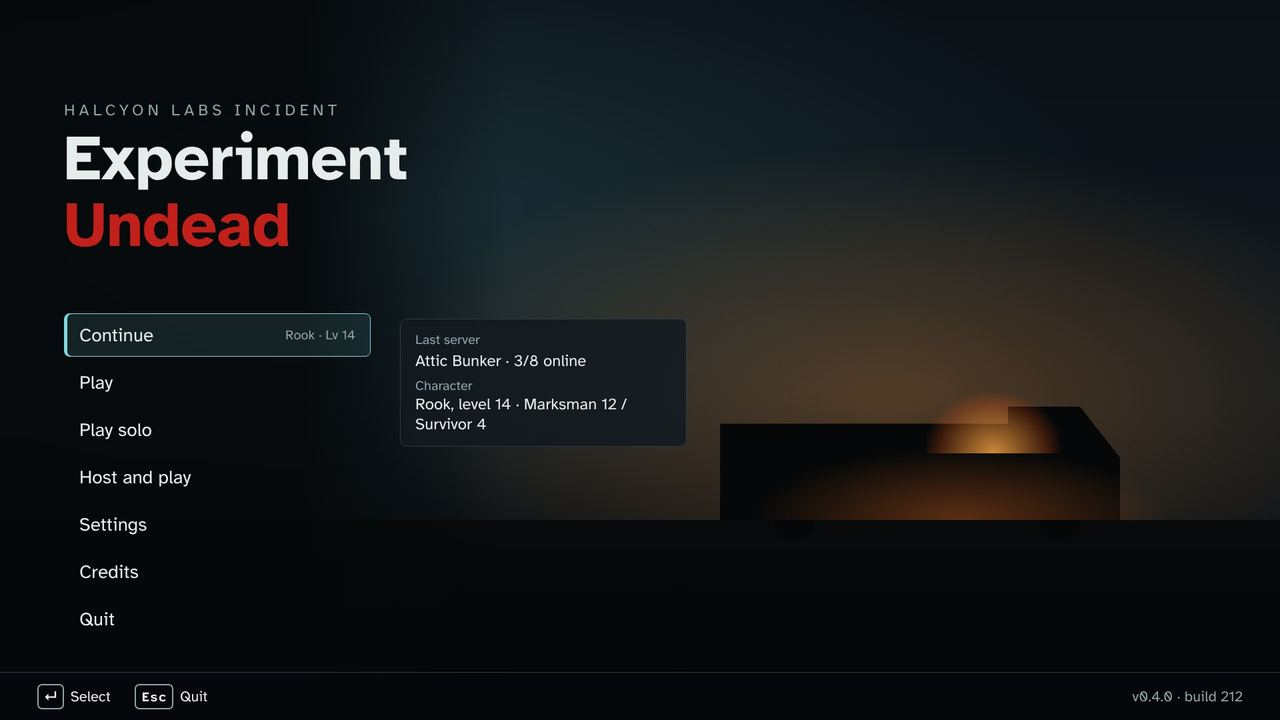
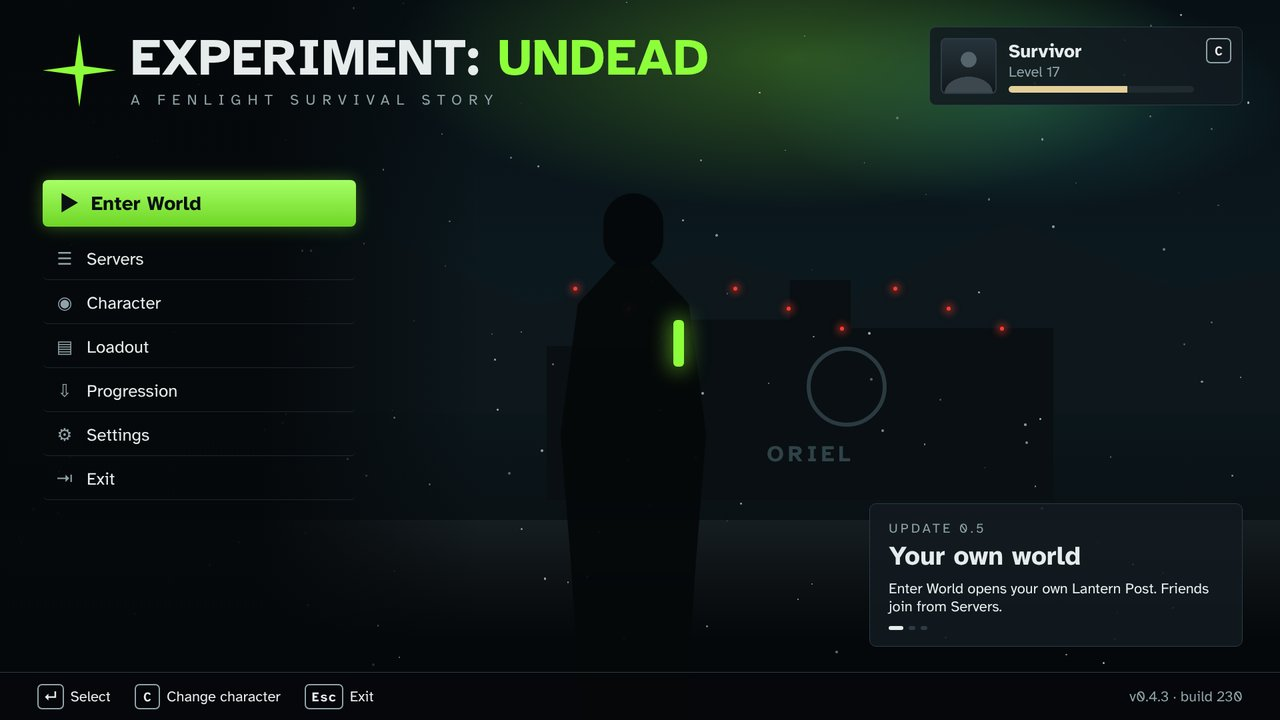
Upgrade main menu, server browser, character select and HUD design to the concept art
Claude-Session: https://claude.ai/code/session_012H4uhqPXUuzN6dbQWGWNqL

diff --git a/docs/design/ui-hud.md b/docs/design/ui-hud.md
@@ -1,6 +1,6 @@
 # Menus, HUD and Screen Flow
 
-Source: copy of the design doc (UI/UX spec) as of Nov 14, 2026. Where this file and the code differ, the code and `docs/DECISIONS.md` win.
+Source: copy of the design doc (UI/UX spec) as of Nov 14, 2026, with screens 1, 2, 3 and 10 updated on Nov 17, 2026 to the person's concept art ([concepts/screens/screens_concept.jpg](concepts/screens/screens_concept.jpg)). Where this file and the code differ, the code and `docs/DECISIONS.md` win.
 
 ## Summary
 
@@ -8,7 +8,7 @@ The game has 15 screens in 3 places: the front end (before you join a server), t
 
 **Rules every screen follows**
 
-1. **Two clicks to play.** From the main menu, Continue puts you in the town with your last character; from the town, the Deploy Gate is the only way into a match.
+1. **Two clicks to play.** From the main menu, Enter World puts you in your own town with your last character; from the town, the Deploy Gate is the only way into a match.
 2. **Easy to read.** Atkinson Hyperlegible by default (Lexend and OpenDyslexic as options), body text never below 24 px at 1080p, left-aligned, no italics, no long all-caps text, short labels. A text size slider scales every screen, not only the HUD.
 3. **The middle of the HUD stays empty.** Only the crosshair, hitmarkers and the interaction prompt live in the centre.
 4. **Colour always has a second signal.** Rarity has a colour, a shape, a name and pips (Common circle with 1 pip up to Prototype hazard triangle with 6). Low ammo turns orange and shows LOW. This keeps colour-blind players covered.
@@ -26,7 +26,9 @@ Two-way arrows are screens that open on top and close with Esc or B. The first-l
 
 ## UI style
 
-Menus look like containment-facility terminals: dark blue-black glass panels, thin teal-grey borders, and one bright accent per screen. Bio-green stays reserved for the experiment (Prototype loot, power-ups, the Vault), so it never appears as a plain button colour.
+Menus look like containment-facility terminals: dark blue-black glass panels, thin teal-grey borders, and one bright accent per screen. Bio-green is for the experiment (Prototype loot, power-ups, the Vault) and for **one main action button per screen** (Enter World, Join Server, Select Character, the launcher's PLAY), as in the concept art (the person, 2026-11-17). Every other button, focus ring and selected row stays teal.
+
+**Front-end layout (from the concept art).** Front-end screens use a left column of menu rows or tabs, each with a small line icon, and the selected row gets a teal bar on its left edge. Content sits in large glass panels. The one main action is a wide green button with dark text and a soft green glow, at the bottom right of the screen's content or at the top of the menu column.
 
 | Token | Hex | Used for |
 | --- | --- | --- |
@@ -36,12 +38,12 @@ Menus look like containment-facility terminals: dark blue-black glass panels, th
 | line | #2C3B44 | Borders, dividers |
 | text | #E6ECEC | Main text |
 | text\_dim | #8FA3A8 | Labels, hints, disabled |
-| accent | #7FD6E0 | Focus ring, selected item, primary button (cold fluorescent teal) |
+| accent | #7FD6E0 | Focus ring, selected item, secondary buttons (cold fluorescent teal) |
 | warn | #FF9F1C | Low ammo, warnings |
 | danger | #C3201B | Round number, damage, death, delete |
 | headshot | #FFC845 | Headshot hitmarker and kill numbers |
 | xp | #E3CF9A | XP bar and level-up (brass) |
-| experiment | #8DFF3A | Prototype, power-ups, Vault only |
+| experiment | #8DFF3A | Prototype, power-ups, Vault, and the one main action button per screen (gradient #A6FF66 to #6FD626, text bg\_deep) |
 
 Rarity colours come from the style guide: Common #D9D9D2, Uncommon #3FE0C8, Rare #3D7DFF, Epic #A64DFF, Legendary #FF8A1C, Prototype #8DFF3A. Each item shows rarity four ways: border colour, rarity shape (circle for Common up to hazard triangle for Prototype), rarity name in the tooltip, and 1 to 6 pips.
 
@@ -61,35 +63,58 @@ Shown once, before the main menu, and again from Settings. One page with big pre
 
 ### 1. Main menu
 
-A slow camera drift over the burning supply truck at the Halcyon Labs dock, with the menu on the left third.
+A live 3D scene: your selected character stands in the snow at the Halcyon Labs outer gate at night, under a green Fenlight aurora, with the Oriel Biotechnic building and its red warning lights behind. Slow camera drift, falling snow. The menu sits on the left third over a dark fade.
 
-- **Continue** (default focus): joins the last server with the last character. Greyed out on first launch.
-- **Play**: opens the server browser.
-- **Play solo**: starts a private local server in the background and goes straight to character select. Same code path as online.
-- **Host and play**: same as solo, but opens the port so friends can join. Asks for a server name and password once.
-- **Settings**, **Credits**, **Quit**.
-- Bottom right: game version and build number, for bug reports.
+- **Top left:** the wordmark "EXPERIMENT: UNDEAD" (UNDEAD in bio-green) with the four-point Fenlight star, and the line "A Fenlight survival story".
+- **Enter World** (green, default focus): starts your own Lantern Post with the selected character (open to friends, F-66).
+- **Servers**: the server browser (screen 2).
+- **Character**: character select (screen 3).
+- **Loadout**: the Character screen (screen 5) for the selected character.
+- **Progression**: the Skill tree (screen 6) for the selected character.
+- **Settings**, **Exit**.
+- **Top right, profile card:** portrait, character name, level and a brass XP bar. Click it or press C to change character. Never a real name: the mockup uses "Survivor".
+- **Bottom right, news card:** the latest update's title and one line, from the patch notes bundled with the build (no internet feed), with dots to page through the last 3. Replaces the concept's season banner: there are no seasons.
+- **Bottom left:** game version and build number, for bug reports.
 
 ![Main menu mockup](images/ui_main_menu.jpg)
 
-### 2. Server browser and direct connect
+### 2. Server browser
 
-There is no master server, so the list holds servers you added or joined before, plus servers found on your local network (LAN broadcast on UDP 24600).
+There is no master server (F-66, ADR 0006), so the list holds servers you added or joined before, plus servers found on your local network: the browser sends an info query to each server's info port (game port + 1000, so 8777 for 7777) and broadcasts it on the LAN.
 
-- Columns: name, players (3/8), map in progress, ping, password lock. Sorted by ping.
-- **Direct connect** field: address and port, with a password field that appears when the server asks for one.
-- Right-click or Y on a row: favourite, rename, remove.
-- Errors in plain words: "Server is full (8/8)", "Wrong password", "Version mismatch: server 0.3.1, you 0.3.0".
+- **Left column tabs:** All, Favourites, Recent, LAN, and Refresh at the bottom. The concept's Official, Community and Modded tabs and its Region filter need a master server, so they are left out.
+- **Filters:** Map, Players, Show full, Show other versions, and a search box.
+- **Columns:** favourite star, server name, now playing (hub or map and round), players (3 / 8), ping (signal bars plus ms, orange above 80 ms), tags (LAN, Full, version in orange when it does not match yours). Sorted by ping.
+- **Add by address** under the list: address and port, then Add and join. No password field until P8.
+- **Detail panel** at the bottom for the selected row: map picture, name, what it is playing, version check, address, tags, players, and a green **Join Server** button.
+- Favourite, rename and remove from a row (F, right-click or Y).
+- Errors in plain words: "Server is full (8/8)", "Version mismatch: server 0.4.1, you 0.4.0".
 
 ![Server browser mockup](images/ui_server_browser.jpg)
 
-### 3. Character select and create
+### 3. Character select
 
-Up to 6 character slots, stored in `user://characters/`. Each card shows name, level, the 3 skill branches as small bars, and the loadout primary with its rarity border.
+Built in F-67 (plan needed). You pick one of a small roster of **preset survivors**, each with a name, a role, a short bio and 3 fixed traits (the person picked this over making your own character, 2026-11-17). Skills and loot still make your build; traits are a small flavour on top.
 
-- Create: name, body type, 4 face presets, outfit colour. No class choice: your build comes from skills and loot.
-- Delete needs you to type the character's name.
-- Import and export a character file, so players can move PCs or back up.
+- **Left column:** a portrait for each survivor with name and level (no level shown if never played), the selected one with a teal frame.
+- **Middle:** the selected survivor as a live 3D model in their equipped gear, lit by a warm lamp in a dark room. Drag or right stick to turn it.
+- **Right panel:** name (large), role ("Field Lead · Salvager"), a 2-line bio, **Traits** (icon, name, one line each), then your progress with this survivor: level, brass XP bar, best round, and the equipped guns as small rarity cards.
+- **Select Character** (green) under the panel: back to the main menu with this survivor on the profile card.
+- Export and import a save file, so players can move PCs or back up.
+
+**Provisional, for the F-67 plan to settle:**
+
+- **Progress is per survivor:** each survivor has their own save (`user://characters/<survivor_id>.json`: level, skills, stash, Scrap), so playing a new survivor starts at level 1. This keeps today's one-file-per-character save.
+- **Starting roster of 4** (names and bios are placeholders until the lore pass; no real people's names, ever):
+
+| Survivor | Role | Bio | Traits |
+| --- | --- | --- | --- |
+| Elias Kell | Field Lead · Salvager | Former Cordon logistics sergeant. Knows the zone and its people. | Tenacious (less damage while downed), Field Experience (more ammo carried), Team Anchor (nearby squadmates regenerate a little faster between rounds) |
+| Noor Wouters | Medic | Night nurse at Halcyon Labs who got out on Day 0. | Quick Hands (faster revives), Triage (revived squadmates get back more health), Calm (less screen shake when hit) |
+| Jonas Leclercq | Engineer | Kessel Dam turbine fitter, now keeps Lantern Post's lamps lit. | Tinkerer (cheaper barricade repair points), Heavy Lifter (faster weapon swap), Night Shift (longer power-up timers) |
+| Ines Haelen | Lab Tech | Oriel sample technician who knows how Fenlight behaves. | Sample Sense (Fenlight samples and drops show farther away), Cold Read (see a special zombie's tell a bit earlier), Steady (less sway when aiming) |
+
+- **Trait numbers** come from the balance sheet, small (around 5 to 15%), and use existing stat keys where one exists. A new data type (`SurvivorData` in `content/survivors/`) holds name, role, bio, portrait, model and trait list.
 
 ![Character select mockup](images/ui_character_select.jpg)
 
@@ -152,13 +177,15 @@ Map art, the map name, and one rotating tip. A progress bar, and the names of sq
 
 ### 10. Match HUD
 
-Follows the design doc table. Additions:
+Follows the design doc table. Additions (the concept art on 2026-11-17 added the health panel, objective list, item slots and area name):
 
-- **Top right:** squad cards (name, health bar, down state with bleed-out timer) and pinned contracts.
-- **Bottom left, above serums:** field ability icon with a cooldown ring, and the Pack count (4/6).
+- **Top left:** round number, and under it the map and the area you are in ("Halcyon Labs · Containment").
+- **Top right:** an objective list (exfil steps, map events, pinned contracts with a count, done ones ticked and struck through), then squad cards (name, health bar, down state with bleed-out timer).
+- **Bottom left:** field ability icon with a cooldown ring, serums and the Pack count (4/6) in one row, and under it the health panel: portrait, health number and max (100 / 150) and a health bar. The red vignette under 40 HP and the heartbeat stay.
 - **Bottom centre:** power-up timers, and a small item drop feed ("Rare Talon DMR" in rarity colour) that fades after 4 s.
-- **Health:** no health bar for yourself, like the design doc: red vignette under 40 HP and a short heartbeat. A thin bar only appears when Ironhide or gear raises max health above 150, so the extra health is readable.
+- **Bottom right:** points, then the grenade and tactical slots (icon, count, key G and Q) next to the ammo panel (gun name with rarity shape, magazine big, reserve small).
 - **Exfil:** from round 10, every 5 rounds, a marker and a 60 s hold bar appear at the top centre.
+- **Not taken from the concept:** a minimap (Halcyon Labs is small; later if a bigger map needs it), armour and medkits (the game has neither), and a zombies-remaining count.
 
 ![Match HUD mockup over a first-playable screenshot](images/ui_match_hud.jpg)
 
@@ -192,6 +219,7 @@ Exfil uses the same screen with a green "Exfiltrated" banner and the exfil cache
 
 Pages: Controls, Aim, Video, Audio, Accessibility, Comfort, with a search box at the top that finds any setting by name. Each row is a label, a control, and a one-line hint under it. The full list of rows lives in the [Controls and accessibility plan](controls.md); this doc only covers the layout. Changes apply live, with "Revert" and "Defaults" at the bottom. Video changes that need a restart say so.
 
+- **Network tab (F-66):** Let friends join my world, Open router port automatically, World name, port.
 - **Accessibility tab:** text size, colour-blind mode (3 presets for hitmarkers, drops and rarity), subtitles for audio tells, screen shake, reduce motion, hold or toggle for ADS, sprint and crouch, aim assist for controller.
 - **Controls tab:** every action from the input map, with keyboard and controller columns and a "press a key" rebind.
 
@@ -247,13 +275,14 @@ UI is built in the same phases as the roadmap, so no screen is made before the s
 | P2 Wave loop | Round number, points with floating numbers, interaction prompt, power-up timers, serum row, simple results screen |
 | P4 Map 1 (v0.1) | Main menu, Loading, final HUD polish, results screen in final look |
 | P5 Levels and skills | XP bar, level-up toast, Skill tree, field ability icon |
-| P6 Loot (v0.2) | Item card and tooltip, Pack overlay, drop feed, Character screen (loadout, stash), results loot column, character select |
+| P6 Loot (v0.2) | Item card and tooltip, Pack overlay, drop feed, Character screen (loadout, stash), results loot column, character select (F-67) |
 | P7 Co-op | Squad cards, down and revive states, results View squad |
 | P8 Server package | Server browser, direct connect, Host and play |
 | P9 Town hub (v1.0) | Town HUD, stations (Workbench, Quartermaster, Contracts, Records), Deploy Gate, player list and inspect, chat |
 
 **Provisional decisions (taken without a review, change any of them)**
 
-- **Main menu background: a live 3D scene** of the Halcyon Labs dock, reusing Map 1 with a slow camera drift. A pre-rendered video is the fallback if loading takes too long.
+- **Main menu background: a live 3D scene** of the selected character at the Halcyon Labs outer gate at night (snow, green aurora), from the concept art. A pre-rendered video is the fallback if loading takes too long.
+- **Main menu Loadout and Progression** open the same Character screen and Skill tree as in town, for the selected character. **News card** reads the patch notes bundled with the build.
 - **Pack overlay: the game keeps running at full speed**, solo too. Only mouse look pauses. This keeps it a quick check, not a safe spot.
 - **Controller: supported at launch**, following the controller layouts in the [Controls and accessibility plan](controls.md). Every screen gets a default focus and button glyphs from P0, so this costs little up front.

diff --git a/docs/design/game-design.md b/docs/design/game-design.md
@@ -506,6 +506,9 @@ Design changes since the Nov 14, 2026 copy, newest first. Add one row in the sam
 
 | Date | Area | Change | Detail |
 | --- | --- | --- | --- |
+| 2026-11-17 | UI | Screens follow the person's concept art: the one main action button per screen is bio-green (Enter World, Join Server, Select Character); main menu gets Enter World, Servers, Character, Loadout, Progression, Settings, Exit, a profile card and a news card. | [ui-hud.md](ui-hud.md) UI style, screens 1 and 2 |
+| 2026-11-17 | Characters | Character select picks a preset survivor (name, role, bio, 3 small traits) instead of making your own; progress is per survivor (provisional). | [ui-hud.md](ui-hud.md) screen 3, roadmap F-67 |
+| 2026-11-17 | HUD | Match HUD gets an always-on health panel (number and bar), an objective list top right, the area name under the round, and grenade and tactical slots by the ammo. No minimap, armour or medkits. | [ui-hud.md](ui-hud.md) screen 10 |
 | 2026-11-17 | Gore | Full gore is stronger, picked from renders: blood bursts have 24 flecks (was 12) and each death lays a 1.6x pool plus 2 small splats. Head pops on headshot kills; Gore setting Full / Reduced / Off on the Graphics page. | [game-feel.md](game-feel.md) Blood and gore, plan zombie-sounds-gore step 4 |
 | 2026-11-17 | Campaign | Long campaign: maps come in acts of four (Act I = the first four maps), each map has a boss reached through a mid-run Sublevel descent, Lantern Post grows per act, and endgame hooks are named. | [lore.md](lore.md), PR #201, roadmap F-60 |
 | 2026-11-16 | Process | Plan first: a feature whose roadmap row says "needed" gets an approved plan in `docs/plans/` before any code. `docs/ROADMAP.md` is the build order. | [PROCESS.md](../PROCESS.md), PR #172 |

diff --git a/docs/ROADMAP.md b/docs/ROADMAP.md
@@ -50,7 +50,7 @@ Status values: Todo, Planning, Ready (plan approved), Building, Done, Check
 | F-49 | HUD feedback and loading: loading screen, damage numbers, level-up burst, drop feed | - | - | [done](plans/hud-feedback-loading.md) | M | Done |
 | F-50 | First Lantern Post hub: town blockout, Deploy board and ready-up vote (first slice of F-45, pulled forward for the co-op week goal) | #131 | F-02, F-47 step 4 (#255), co-op #256 | [done](plans/lantern-post-hub.md) | M | Done |
 | F-66 | Your own world, open to friends: Enter world into your own Lantern Post (listen server, UPnP), server browser with add by address and LAN discovery, no master server | - | F-02, F-50 | [ready](plans/join-any-game.md) | L | Ready |
-| F-67 | Character select and create before Enter world (ui-hud screen 3: slots, create, delete) | - | F-66 step 2 | needed | M | Todo |
+| F-67 | Character select before Enter world: pick a preset survivor with a bio and 3 traits (ui-hud screen 3, concept art 2026-11-17) | - | F-66 step 2 | needed | M | Todo |
 
 ## Next: v0.2 Progression and loot
 

diff --git a/docs/design/concepts/README.md b/docs/design/concepts/README.md
@@ -43,3 +43,7 @@ Shared helpers live in `tools/concepts/blockout.py`: the
 fog, wet floors and the shot renderer. Use its colour names instead of new hex
 values: teal light inside, sodium only from outside, bio-green only where
 Fenlight is.
+
+## Game screens (2026-11-17)
+
+[screens/screens_concept.jpg](screens/screens_concept.jpg) is the person's concept art for four screens: main menu with Enter World, match HUD, server browser and character select. The UI mockups in `../images/ui_*.jpg` and [ui-hud.md](../ui-hud.md) follow it, except where the game has no such system (no master server, so no Official/Community/Modded lists or Region filter; no minimap, armour, medkits or seasons). The profile card's name was replaced with "Survivor": never put a real person's name in a screen.
